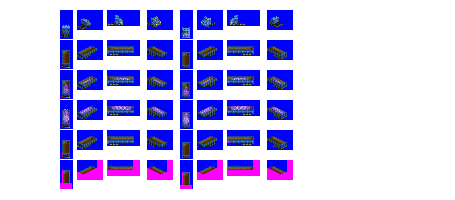
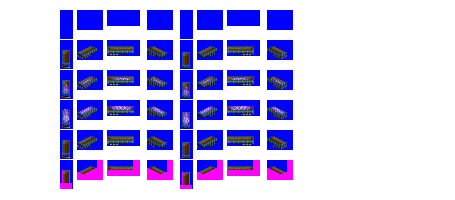
Codechange: start converting trucks to use base platform sprites as needed

diff --git a/src/base_platform.py b/src/base_platform.py
@@ -25,7 +25,26 @@ class BasePlatform(object):
         kwargs['base_platform'] = self # replace the class name with this class instance
         return kwargs
 
+    def _get_spritesheet_name_from_class_name(self, consist):
+        # transform class name to spritesheet ID - somewhat hax
+        # intended to be called via get_spritesheet_name_body_or_complete_vehicle adapter
+        class_name_split = [char for char in type(self).__name__]
+        result = []
+        # drop the gen chars, split remainder on uppercase, makes lowercase and adds underscores
+        for char in class_name_split[0:-2]:
+            if char.isupper():
+                result.append('_' + char.lower())
+            else:
+                result.append(char)
+        # put the gen chars back, keeping case
+        result.append('_' + ''.join(class_name_split[-2:]))
+        result = ''.join(result)
+        # drop an extraneous leading underscore
+        result = result[1:]
+        return result
+
     def get_spritesheet_name_body_or_complete_vehicle(self, consist):
+        # intended to be called from graphics pipeline
         # over-ride this in subclasses to provide spritesheet names according to arbitrary rules per platform type
         return None
 

diff --git a/src/base_platforms/feldbahn.py b/src/base_platforms/feldbahn.py
@@ -7,21 +7,8 @@ class EngineFeldbahnBase(BasePlatform):
     always_use_same_spriterow = True
 
     def get_spritesheet_name_body_or_complete_vehicle(self, consist):
-        # transform class name to spritesheet ID - somewhat hax
-        class_name_split = [char for char in type(self).__name__]
-        result = []
-        # drop the gen chars, split remainder on uppercase, makes lowercase and adds underscores
-        for char in class_name_split[0:-2]:
-            if char.isupper():
-                result.append('_' + char.lower())
-            else:
-                result.append(char)
-        # put the gen chars back, keeping case
-        result.append('_' + ''.join(class_name_split[-2:]))
-        result = ''.join(result)
-        # drop an extraneous leading underscore
-        result = result[1:]
-        return result
+        return self._get_spritesheet_name_from_class_name(consist)
+
 
 # engines
 

diff --git a/src/vehicles/greenscoe_tanker.py b/src/vehicles/greenscoe_tanker.py
@@ -1,5 +1,5 @@
 from road_vehicle import TankerTruckConsist
-from base_platforms.trucks import DieselConventionalCabSemiTractorTruckGen4A
+from base_platforms.trucks import DieselConventionalCabSemiTractorTruckGen3A
 
 consist = TankerTruckConsist(id='greenscoe_tanker',
                       base_numeric_id=210,
@@ -7,7 +7,7 @@ consist = TankerTruckConsist(id='greenscoe_tanker',
                       gen=3,
                       intro_date_offset=3)  # introduce later than gen epoch by design
 
-consist.add_unit(base_platform=DieselConventionalCabSemiTractorTruckGen4A)
+consist.add_unit(base_platform=DieselConventionalCabSemiTractorTruckGen3A)
 
 consist.add_unit(base_platform=None,
                  vehicle_length=5)

diff --git a/src/vehicles/easywheal_box.py b/src/vehicles/easywheal_box.py
@@ -1,12 +1,12 @@
 from road_vehicle import BoxTruckConsist
-from base_platforms.trucks import DieselConventionalCabSemiTractorTruckGen4A
+from base_platforms.trucks import DieselConventionalCabSemiTractorTruckGen3A
 
 consist = BoxTruckConsist(id='easywheal_box',
                    base_numeric_id=160,
                    name='Easywheal',
                    gen=3)
 
-consist.add_unit(base_platform=DieselConventionalCabSemiTractorTruckGen4A)
+consist.add_unit(base_platform=DieselConventionalCabSemiTractorTruckGen3A)
 
 consist.add_unit(base_platform=None,
                  vehicle_length=5)

diff --git a/src/base_platforms/trucks.py b/src/base_platforms/trucks.py
@@ -6,6 +6,15 @@ class SemiTractorTruckBase(BasePlatform):
     always_use_same_spriterow = True
     unit_is_semi_tractor = True
 
+    def get_spritesheet_name_body_or_complete_vehicle(self, consist):
+        foo = self._get_spritesheet_name_from_class_name(consist)
+        if foo == 'diesel_conventional_cab_semi_tractor_truck_gen_4A':
+            print(consist.id)
+            return foo
+        else:
+            return None
+
+
 # semi-trucks
 
 class SteamCaboverSemiTractorTruckGen2A(SemiTractorTruckBase):
